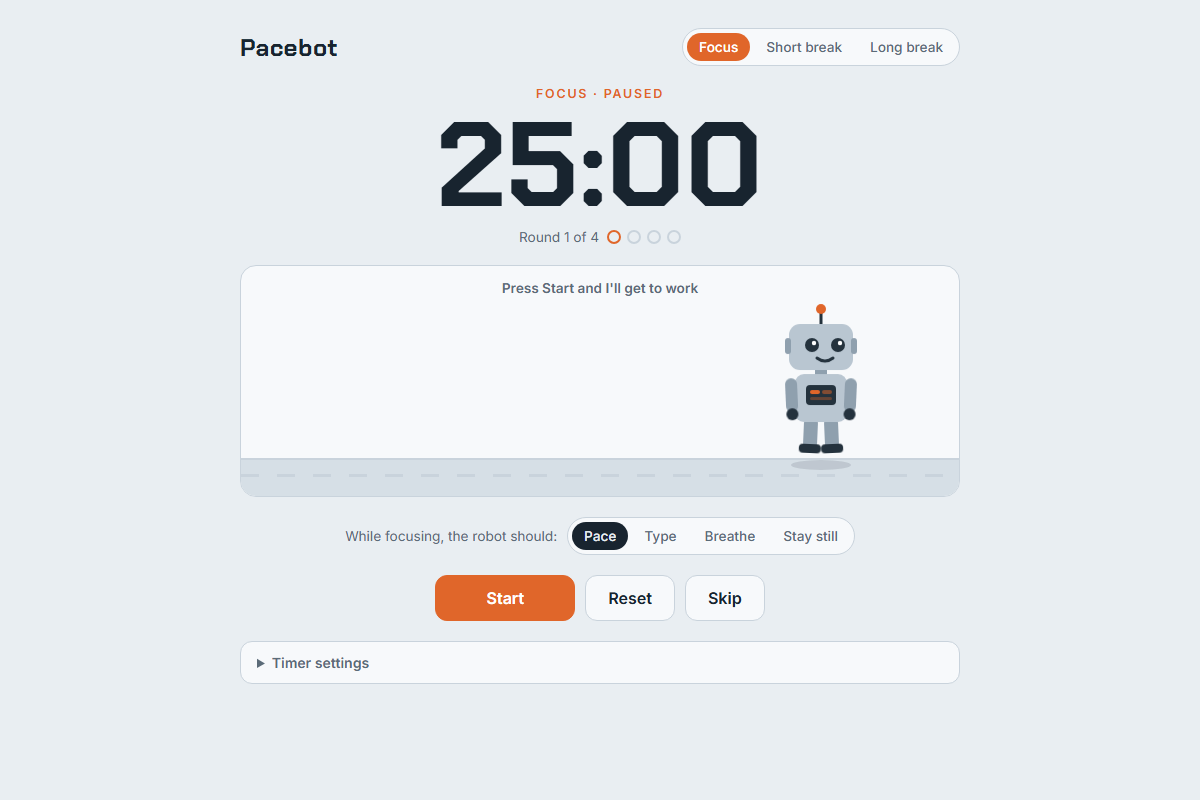
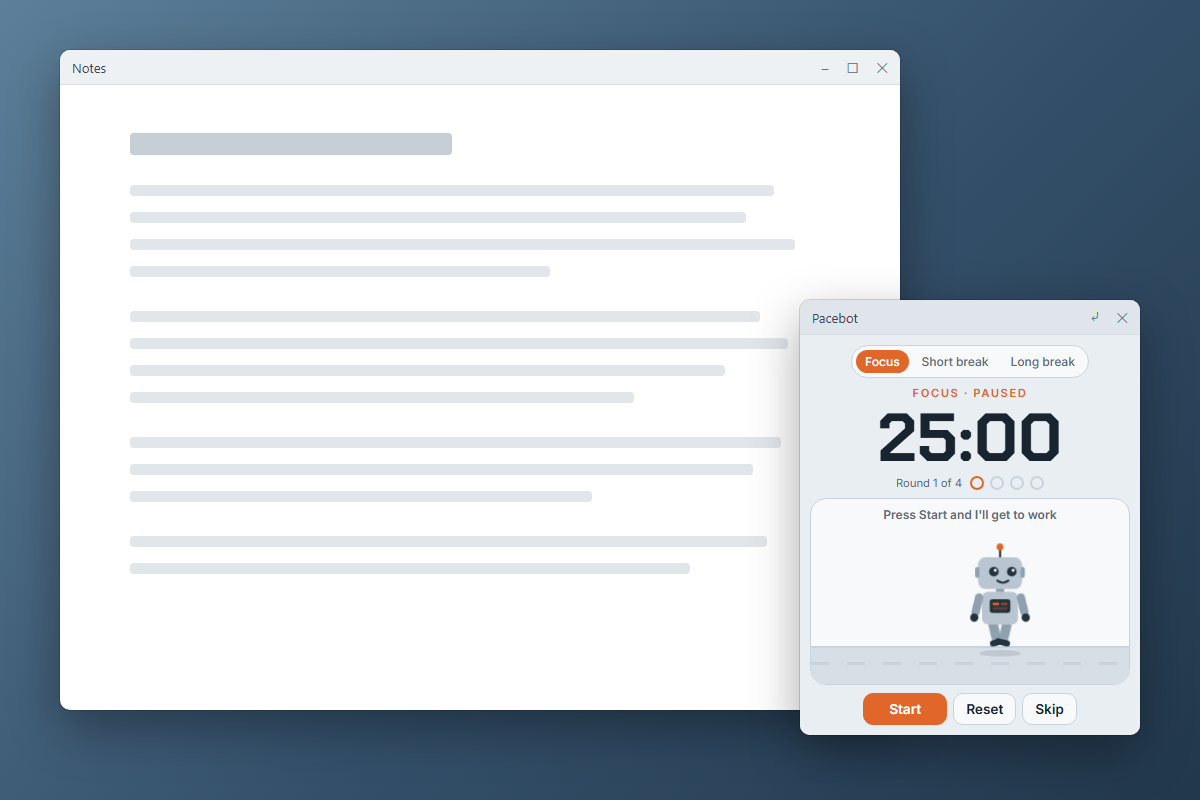
Update README screenshot to show the pop-out window

diff --git a/README.md b/README.md
@@ -4,7 +4,7 @@ A Pomodoro timer with a little robot that keeps pace with you. It works alongsid
 
 **Try it live: https://carolbult.github.io/pacebot/**
 
-![Pacebot showing a 25:00 focus timer with the robot waiting to start](docs/screenshot.png)
+![Pacebot popped out into a small floating window on top of a notes window, showing a 25:00 focus timer and the robot](docs/screenshot.png)
 
 ## Features
 
